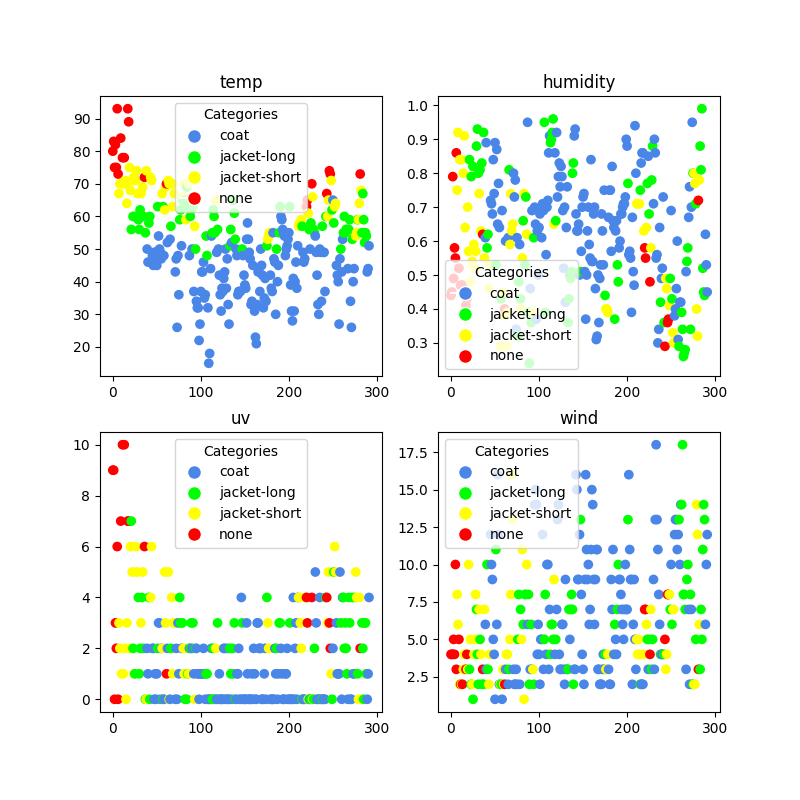
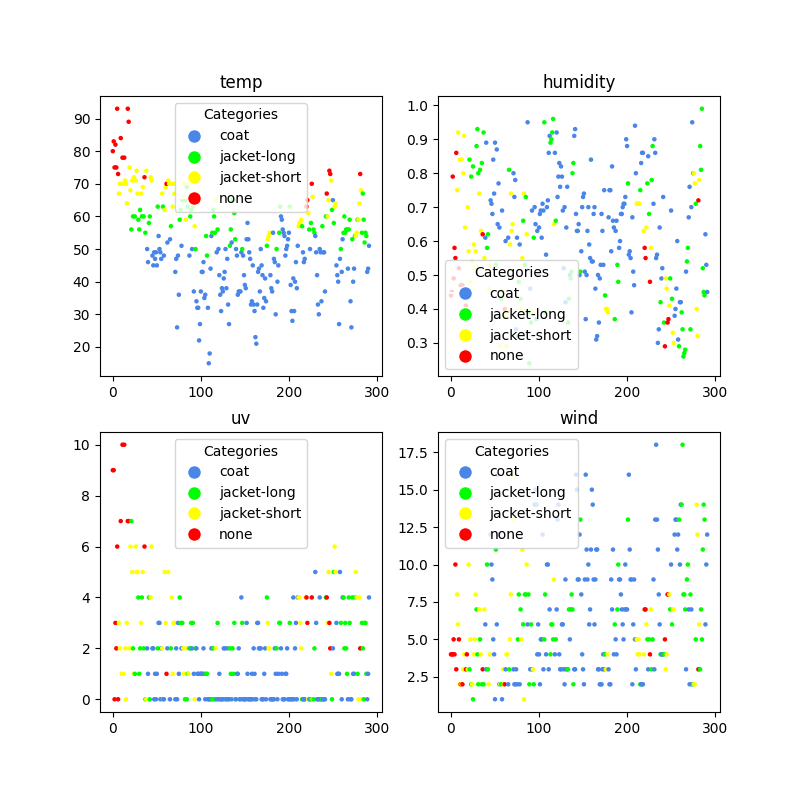
Decrease scatter marker size

diff --git a/visualize.py b/visualize.py
@@ -74,7 +74,8 @@ def scatter(axis: matplotlib.axes.Axes, feature='temp'):
         x=data.index,
         y=data[feature],
         c=data[config['output']].astype('category').cat.codes,
-        cmap=clothes_cm
+        cmap=clothes_cm,
+        s=5
     )
 
     legend_labels = ['coat', 'jacket-long', 'jacket-short', 'none']
@@ -142,6 +143,6 @@ def plot_mds():
 
 if __name__ == '__main__':
     init_data()
-    plot_histograms()
+    # plot_histograms()
     plot_scatters()
-    plot_mds()
+    # plot_mds()
